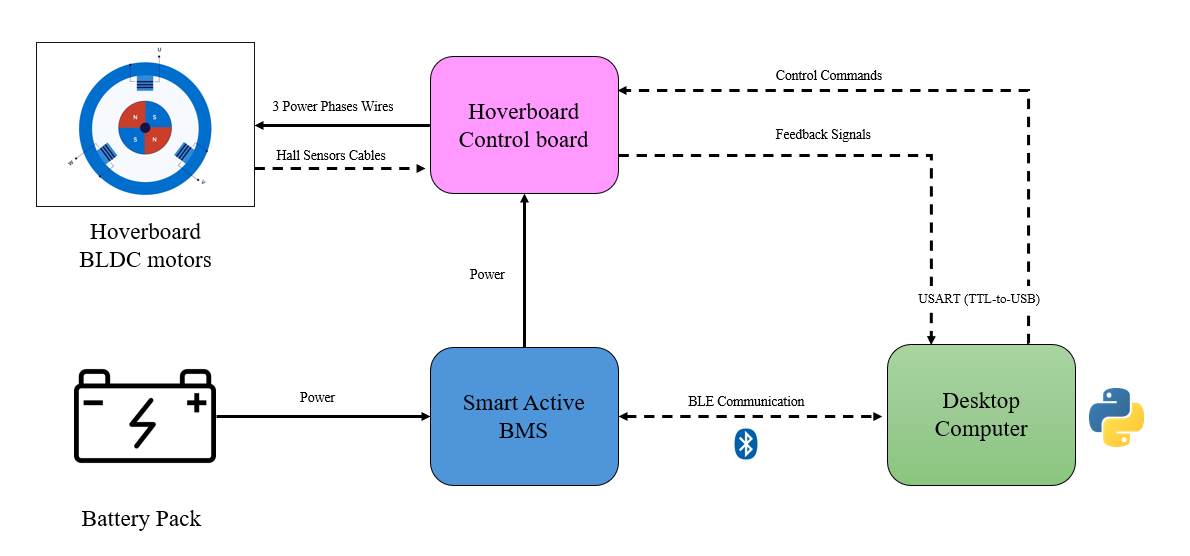
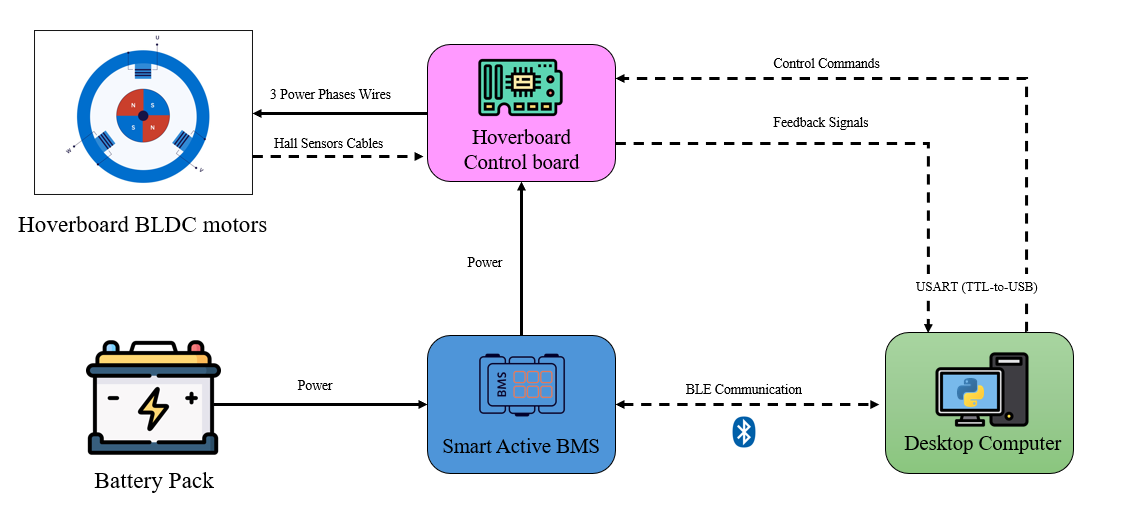
delete unused files, add correlation matrix generation, data analysis and update figure

Changed region(s): [[0.0618, 0.0602, 0.9585, 0.9624], [0.0, 0.0602, 0.2473, 0.4812], [0.773, 0.5113, 0.9276, 0.5714]]

diff --git a/dataset/correlation_matrix.py b/dataset/correlation_matrix.py
@@ -1,0 +1,71 @@
+import pandas as pd
+import matplotlib.pyplot as plt
+import numpy as np
+
+# constant cols to drop
+cols_to_drop = [
+    "bms/cell_count",
+    "bms/cycles",
+    "bms/temp_sensors",
+    "bms/battery_charging",
+    "timestamp_ms",
+    # drop all cell voltages
+    "bms/cell_voltages_0",
+    "bms/cell_voltages_1",
+    "bms/cell_voltages_2",
+    "bms/cell_voltages_3",
+    "bms/cell_voltages_4",
+    "bms/cell_voltages_5",
+    "bms/cell_voltages_6",
+    "bms/cell_voltages_7",
+    "bms/cell_voltages_8",
+    "bms/cell_voltages_9",
+    "time_s"
+]
+
+df = pd.read_excel(r"C:\Users\assas\Desktop\NU\Experimental Setup\ev-bms-data-acquisition\dataset\runs_excel\run_001_with_cell_voltage_features_dv_di.xlsx")
+# Keep only numeric columns
+df_numeric = df.select_dtypes(include="number")
+df_filtered = df_numeric.drop(columns=cols_to_drop, errors="ignore")
+corr_matrix = df_filtered.corr(method="pearson")
+
+print(corr_matrix)
+
+plt.figure(figsize=(14, 12))
+
+plt.imshow(corr_matrix)
+plt.colorbar(fraction=0.046, pad=0.04)
+
+plt.xticks(
+    ticks=np.arange(len(corr_matrix.columns)),
+    labels=corr_matrix.columns,
+    rotation=90,
+    fontsize=9
+)
+plt.yticks(
+    ticks=np.arange(len(corr_matrix.columns)),
+    labels=corr_matrix.columns,
+    fontsize=9
+)
+
+plt.title("Pearson Correlation Matrix", fontsize=14)
+plt.tight_layout()
+plt.show()
+
+# cell_voltage_cols = [
+#     col for col in df.columns
+#     if "cell" in col.lower() and "voltage" in col.lower()
+# ]
+
+# print("Detected cell voltage columns:")
+# print(cell_voltage_cols)
+
+# df["V_cell_mean"]  = df[cell_voltage_cols].mean(axis=1)
+# df["V_cell_min"]   = df[cell_voltage_cols].min(axis=1)
+# df["V_cell_max"]   = df[cell_voltage_cols].max(axis=1)
+# df["V_cell_std"]   = df[cell_voltage_cols].std(axis=1)
+# df["time_s"] = df["timestamp_ms"] / 1000.0
+# df["dV_pack_dt"] = df["bms/voltage"].diff() / df["time_s"].diff()
+# df["dI_pack_dt"] = df["bms/current"].diff() / df["time_s"].diff()
+
+# df.to_excel(r"C:\Users\assas\Desktop\NU\Experimental Setup\ev-bms-data-acquisition\dataset\runs_excel\run_001_with_cell_voltage_features_dv_di.xlsx", index=False)

diff --git a/dataset/h5_data_edit.py b/dataset/h5_data_edit.py
@@ -1,0 +1,35 @@
+import h5py
+import os
+
+file_path = r"C:\Users\assas\Desktop\NU\Experimental Setup\ev-bms-data-acquisition\dataset\hoverboard_bms_dataset.h5"
+
+
+# with h5py.File(h5_path, "r+") as f:
+#     run_name = "run_003"
+#     run_group = f[run_name]
+#     # List subgroups
+#     print(list(run_group.keys()))
+#     metadata_group = run_group["metadata"]
+#     metadata_group.attrs["description"] = "Running hoverboard at a constant full speed from 100% SOC to 50% SOC."
+#     for attr in metadata_group.attrs:
+#         print(attr, ":", metadata_group.attrs[attr])
+
+group_to_delete = '/run_004'
+
+# Ensure the file exists for demonstration
+if not os.path.exists(file_path):
+    with h5py.File(file_path, 'w') as f:
+        f.create_group(group_to_delete)
+        f.create_dataset(f"{group_to_delete}/data", data=[1, 2, 3])
+
+# Open the HDF5 file in append mode and delete the group
+with h5py.File(file_path, 'a') as f:
+    if group_to_delete in f:
+        del f[group_to_delete]
+        print(f"Group '{group_to_delete}' deleted.")
+    else:
+        print(f"Group '{group_to_delete}' not found.")
+
+# Verify deletion (optional)
+with h5py.File(file_path, 'r') as f:
+    print(f"Contents after deletion: {list(f.keys())}")

diff --git a/dataset/runs/discharge_run.py b/dataset/runs/discharge_run.py
@@ -14,14 +14,15 @@ import time
 hdf5_file = "dataset/hoverboard_bms_dataset.h5"
 
 # run parameters
-run_name = "run_001"
+run_name = "run_004"
 run_metadata = {
-    "description": "Running hoverboard at a constant full speed from 100% SOC to 40% SOC.",
+    "description": "Running hoverboard at a constant 0.8 full speed from 85% SOC to 40% SOC.",
     "date": get_date_string(),
     "battery_pack": "Lithium-Ion, 41.5V, 10.2Ah",
     "battery_age": "new"
 }
-speed = 580                    # constant speed to maintain
+FULL_SPEED = 580                # full speed value for hoverboard
+speed = int(FULL_SPEED*0.8)     # constant speed to maintain
 stop_soc = 40.0                 # stop run when SOC reaches this value
 hb_com_port = "COM5"            # Hoverboard COM port
 hb_baud_rate = 115200           # Hoverboard baud rate
